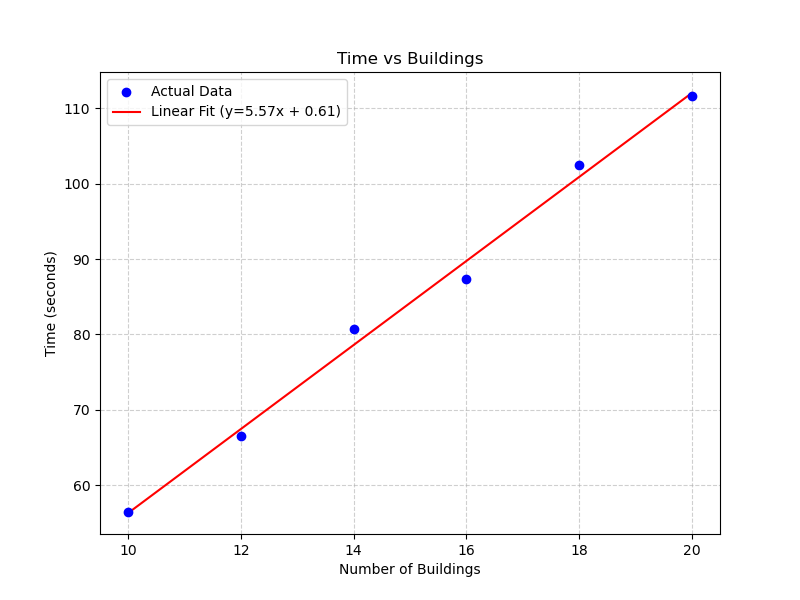
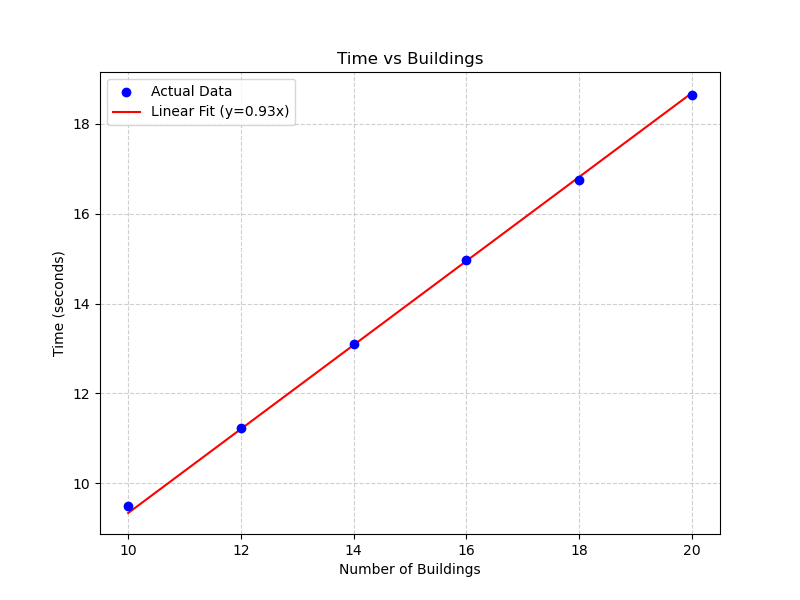
task 7

diff --git a/src/Task7.py b/src/Task7.py
@@ -3,7 +3,9 @@ import sys
 
 import numpy as np
 from numba import jit
+
 import time
+import matplotlib.pyplot as plt
 
 def load_data(load_dir, bid):
     SIZE = 512
@@ -15,20 +17,22 @@ def load_data(load_dir, bid):
 @jit(nopython=True)
 def jacobi(u, interior_mask, max_iter, atol=1e-6):
     u = np.copy(u)
-
-    for i in range(max_iter):
+    u_new = np.copy(u)
+    for _ in range(max_iter):
         # Compute average of left, right, up and down neighbors, see eq. (1)
-        u_new = 0.25 * (u[1:-1, :-2] + u[1:-1, 2:] + u[:-2, 1:-1] + u[2:, 1:-1])
-        u_new_interior = np.zeros_like(u_new)
-        delta = np.zeros_like(u_new)
+        max_delta = 0
         for i in range(u_new.shape[0]): # går gennem alle rækkerne
             for j in range(u_new.shape[1]): # går gennem hvert element i rækkerne
-                if interior_mask[i,j]:
-                    u_new_interior[i,j] = u_new[i,j]
-                    delta[i,j] = u[1:-1, 1:-1][i,j] - u_new_interior[i,j]
-                    u[1:-1, 1:-1][i,j] = u_new_interior[i,j]
-        
-        max_delta = np.abs(delta).max()
+                if interior_mask[i-1,j-1]:
+                    u_new[i, j] = 0.25 * (
+                    u[i, j - 1] +  
+                    u[i, j + 1] +  
+                    u[i - 1, j] +  
+                    u[i + 1, j]    )
+                    delta = abs(u[i,j] - u_new[i,j])
+                    max_delta = max(max_delta,delta)
+
+        u, u_new = u_new, u
 
         if max_delta < atol:
             break
@@ -49,8 +53,30 @@ def summary_stats(u, interior_mask):
     }
 
 
+#### Have to comopile kernel 1 time before timing - so we need to load building ID's etc to test. 
+
+LOAD_DIR = '/dtu/projects/02613_2025/data/modified_swiss_dwellings/'
+with open(join(LOAD_DIR, 'building_ids.txt'), 'r') as f:
+    building_ids = f.read().splitlines()
+building_ids = building_ids[:1]
+
+all_u0 = np.empty((1, 514, 514))
+all_interior_mask = np.empty((1, 512, 512), dtype='bool')
+for i, bid in enumerate(building_ids):
+    u0, interior_mask = load_data(LOAD_DIR, bid)
+    all_u0[i] = u0
+    all_interior_mask[i] = interior_mask
+
+# Run jacobi iterations for each floor plan
+MAX_ITER = 20_000
+ABS_TOL = 1e-4
+
+all_u = np.empty_like(all_u0)
+for i, (u0, interior_mask) in enumerate(zip(all_u0, all_interior_mask)):
+    u = jacobi(u0, interior_mask, MAX_ITER, ABS_TOL)
+    all_u[i] = u
+
 if __name__ == '__main__':
-    t = time.time()
     # Load data
     LOAD_DIR = '/dtu/projects/02613_2025/data/modified_swiss_dwellings/'
     with open(join(LOAD_DIR, 'building_ids.txt'), 'r') as f:
@@ -69,19 +95,17 @@ if __name__ == '__main__':
         u0, interior_mask = load_data(LOAD_DIR, bid)
         all_u0[i] = u0
         all_interior_mask[i] = interior_mask
-    t = time.time() - t
+
+
     # Run jacobi iterations for each floor plan
     MAX_ITER = 20_000
     ABS_TOL = 1e-4
-
+    start_time = time.time()
     all_u = np.empty_like(all_u0)
     for i, (u0, interior_mask) in enumerate(zip(all_u0, all_interior_mask)):
-        if i == 1:
-            t2 = time.time()
         u = jacobi(u0, interior_mask, MAX_ITER, ABS_TOL)
         all_u[i] = u
-        print("1 image done")
-    t2 = time.time() - t2
+    print(f"Time for {N} is {time.time()-start_time}")
 
     # Print summary statistics in CSV format
     stat_keys = ['mean_temp', 'std_temp', 'pct_above_18', 'pct_below_15']
@@ -90,4 +114,12 @@ if __name__ == '__main__':
         stats = summary_stats(u, interior_mask)
         print(f"{bid},", ", ".join(str(stats[k]) for k in stat_keys))
 
-    print("total time = ", t + t2)
+fig, axs = plt.subplots(1, 4, figsize=(16, 6), constrained_layout=True)
+
+for i in range(4):
+    axs[i].imshow(all_u[i])
+    axs[i].set_title(f"Building {building_ids[i]}\nSimulation Results", fontsize=10, pad=6)
+    axs[i].axis("off")
+fig.suptitle("Visualization of First Four Buildings", fontsize=14)
+path_save = join('figures',"Task7_evn2026.png")
+plt.savefig(path_save,dpi=300, bbox_inches="tight")